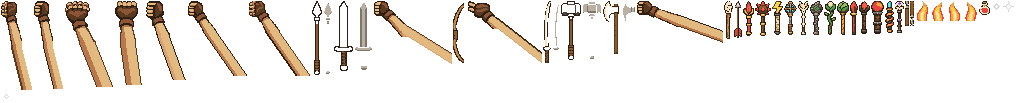
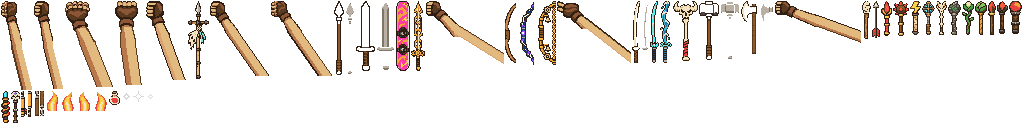
Le armi uniche si vedono in mano per quello che sono (#726)
* Test dei mobili: niente tappeti come comodino (oggi la vetrina ne ha uno e ci si cammina sopra)

* Le armi uniche si vedono in mano per quello che sono

In prima persona ogni arma unica ha il suo disegno: l'Albero della «Stella del Mattino» è un albero maestro col pennone e la vela, la Tavola «Valanga Pro-99» uno snowboard rosa con le fiamme, e così il Martello del Re delle Ossa, la Katana dello Spettro, il Nunchaku del Capobanda, il Fendiflutti, la Grande Lancetta, l'Arco del Custode e l'Arco Carillon. Nel menu la Tavola ha la sua icona e l'Albero un disegno nuovo.

---------

Changed region(s): [[0.0, 0.0, 1.0, 1.0], [0.3438, 0.6408, 0.375, 0.6699]]

diff --git a/apps/client/src/rpg/fp_pose.ts b/apps/client/src/rpg/fp_pose.ts
@@ -4,13 +4,15 @@
 import type { DungeonView } from '@marea/sim/dungeon/types.ts';
 import { COLPI } from '@marea/sim/dungeon/tuning.ts';
 import { bladeAngle, swept } from '@marea/sim/dungeon/swing.ts';
-import { sopraPresa, sottoPresa } from './fp_mani.ts';
+import { destraPresa, sopraPresa, sottoPresa } from './fp_mani.ts';
 import type { Colore, Pezzo } from './fp_mani.ts';
 
 export type Arnese = 'pugni' | 'katana' | 'ascia' | 'nunchaku' | 'lancia' | 'spadone' | 'martello' | 'arco' | 'bacchetta';
 export type Contesto = {
   h: DungeonView['hero'];
   arnese: Arnese;
+  /** Il disegno dell'arma o dell'arco se non è quello del tipo (le uniche: `u_<id>`, coi loro colori e senza lama da tingere); '' = quello del tipo. */
+  sprite: string;
   /** Colore della lama (materiale o unico), della magia in mano, e id della magia (la sua bacchetta). */
   lama: Colore; magia: Colore; magiaId: string;
   /** Forma della magia in mano: 'raggio', 'bomba' o niente. */
@@ -27,17 +29,19 @@ export type Contesto = {
 };
 
 const PESANTI = new Set<Arnese>(['lancia', 'spadone', 'martello']);
+/** Archi unici che hanno la corda nel disegno (la molla dell'Arco Carillon, che non si tende): il gioco non ne disegna un'altra a riposo. */
+const CORDA_PROPRIA = new Set(['u_unico_arco_carillon']);
 const QUASI: Colore = [1, 0.92, 0.55], FILO: Colore = [0.9, 0.82, 0.62];
 const lerp = (a: number, b: number, t: number) => a + (b - a) * t;
 const liscio = (t: number) => { const u = Math.max(0, Math.min(1, t)); return u * u * (3 - 2 * u); };
 const RAGGIO = { x: 0.35, y: 0.06, rot: -0.62 }, REST = { x: 0.3, y: 0.26 }, TORCIA = { x: -0.36, y: 0.2 }, PESO = { x: 0.2, y: 0.2, rot: 0.32 };
 
 function arma(c: Contesto, x: number, y: number, rot: number, out: Pezzo[], scie: readonly (readonly [number, number])[] = []): void {
-  const id = c.arnese;
+  const id = c.sprite || c.arnese;
   for (const [r, a] of scie) out.push({ id: `${id}_lama`, x, y, rot: r, c: c.lama, a, luce: true }, { id, x, y, rot: r, a });
-  if (id === 'nunchaku') {
+  if (c.arnese === 'nunchaku') {
     const dond = Math.sin(c.clock * 7) * 0.25 + rot * 0.6;
-    out.push({ id: 'nunchaku2', x, y, rot: rot + dond });
+    out.push({ id: `${id}2`, x, y, rot: rot + dond });
   }
   out.push({ id, x, y, rot }, { id: `${id}_lama`, x, y, rot, c: c.lama });
 }
@@ -116,15 +120,16 @@ function corda(c: Contesto, x0: number, y0: number, x1: number, y1: number, out:
 /** L'arco nella sinistra, la freccia nella destra: la corda la tira la mano, con la tensione della sim. */
 function arco(c: Contesto, out: Pezzo[]): void {
   const h = c.h, bx = -0.14 + c.bobX + c.swayX, by = 0.36 + c.bobY + c.swayY, tesa = h.anim === 'tende' ? liscio(h.carica) : 0, scatto = h.anim === 'tira' ? 1 - h.t : 0;
-  const su = by + sopraPresa('arco') * c.u + scatto * 0.015, giu = by - sottoPresa('arco') * c.u + scatto * 0.015, piega = 22 * c.u; // le punte dell'arco stanno a destra del ventre
-  out.push({ id: 'arco', x: bx, y: by + scatto * 0.015 });
+  const ar = c.sprite || 'arco', su = by + sopraPresa(ar) * c.u + scatto * 0.015, giu = by - sottoPresa(ar) * c.u + scatto * 0.015, piega = 22 * c.u; // le punte dell'arco stanno a destra del ventre
+  const cx = bx + (c.sprite ? (destraPresa(ar) - 2) * c.u : piega * 0.45); // dove sta la corda (negli unici: al bordo destro del disegno)
+  out.push({ id: ar, x: bx, y: by + scatto * 0.015 });
   if (h.anim === 'tende') {
     const rx = lerp(0.04, 0.26, tesa) + c.bobX, ry = lerp(0.36, 0.26, tesa) + c.bobY;
-    corda(c, bx + piega * 0.45, su, rx, ry, out); corda(c, bx + piega * 0.45, giu, rx, ry, out);
+    corda(c, cx, su, rx, ry, out); corda(c, cx, giu, rx, ry, out);
     out.push({ id: 'freccia', x: rx, y: ry, rot: Math.atan2(bx - rx, by - ry) }, { id: 'regge', x: bx, y: by, flip: true }, { id: 'tira', x: rx, y: ry });
     return;
   }
-  corda(c, bx + piega * 0.45, su, bx + piega * 0.45, giu, out);
+  if (!CORDA_PROPRIA.has(ar)) corda(c, cx, su, cx, giu, out);
   out.push({ id: 'regge', x: bx, y: by, flip: true });
   const rx = REST.x + c.bobX * 1.2 + c.swayX, ry = REST.y - 0.04 - scatto * 0.1 + c.bobY;
   out.push({ id: 'freccia', x: rx, y: ry, rot: 0.12 }, { id: 'pugno', x: rx, y: ry });

diff --git a/apps/client/src/rpg/prima_persona.ts b/apps/client/src/rpg/prima_persona.ts
@@ -21,7 +21,7 @@ import { coloreMagia, palColor } from './items_ui.ts';
 import type { DungeonScene } from './dungeon_scene.ts';
 import { creaSguardo } from './fp_comandi.ts';
 import { creaCorpo } from './fp_corpo.ts';
-import { creaMani } from './fp_mani.ts';
+import { creaMani, haPezzo } from './fp_mani.ts';
 import type { Colore } from './fp_mani.ts';
 import { posa, puntaRaggio } from './fp_pose.ts';
 import type { Arnese } from './fp_pose.ts';
@@ -95,7 +95,7 @@ export function createPrimaPersona(o: {
   const pericoli = creaPericoli({ scene: o.sc.scene, floorY: o.sc.floorY, root: o.root });
   o.diorama.pilota!(true); camera.far = FAR; camera.rotation.order = 'YXZ'; o.sc.scene.add(camera);
   let px = o.hero0.x, pz = o.hero0.z, vel = 0, lat = 0, fase = 0, scossa = 0, caduta = 0, fov = 0, zoom = 1, clock = 0, swY = 0, swP = 0, cambio = 0, chiave = '', animPrima = '', nColpo = 0, frugaMandata = false;
-  let arnese: Arnese = 'pugni', lama: Colore = BIANCO, magia: Colore = BIANCO, forma: string | undefined, tinta: [number, number, number] = [1, 1, 1];
+  let arnese: Arnese = 'pugni', sprite = '', lama: Colore = BIANCO, magia: Colore = BIANCO, forma: string | undefined, tinta: [number, number, number] = [1, 1, 1];
   const qui = new THREE.Vector3(), tip = new THREE.Vector3(), dir = new THREE.Vector3();
   let bobX = 0, bobY = 0, magiaId = '', ultima: DungeonView | null = null;
   /** Per i test: i nemici più vicini (posizione, stato) e i bottini attorno. */
@@ -122,6 +122,7 @@ export function createPrimaPersona(o: {
     const def = h.arma && hasItem(h.arma) ? itemDef(h.arma) : null;
     arnese = !def ? 'pugni' : def.kind === 'arco' ? 'arco' : def.tipo && TIPI.has(def.tipo) ? def.tipo as Arnese : 'katana';
     lama = def?.colore ? coloreLama(palColor(def.colore)) : BIANCO;
+    sprite = def?.unico && haPezzo(`u_${def.id}`) ? `u_${def.id}` : '';
   };
 
   return {
@@ -169,7 +170,7 @@ export function createPrimaPersona(o: {
       }
       bobX = Math.cos(fase) * MANI_PASSO.x * bob; bobY = -Math.abs(Math.sin(fase)) * MANI_PASSO.y * bob - scossa * 0.03; magiaId = h.magia ?? '';
       const pezzi = posa({
-        h, arnese, lama, magia, magiaId: h.magia ?? '', forma, punta, clock, nColpo, u: mani.u,
+        h, arnese, sprite, lama, magia, magiaId: h.magia ?? '', forma, punta, clock, nColpo, u: mani.u,
         bobX, bobY,
         swayX: Math.max(-0.05, Math.min(0.05, swY * 0.3)), swayY: Math.max(-0.04, Math.min(0.04, -swP * 0.25)),
         giu: Math.max(Math.sin(Math.PI * cambio), sch * 0.8, cad, fruga.aperta ? 0.7 : 0),

diff --git a/apps/client/src/rpg/icone.ts b/apps/client/src/rpg/icone.ts
@@ -1,9 +1,10 @@
 // Icone a pixel 16×16 delle armi, degli archi, delle frecce e delle magie: ognuna ha il suo disegno, scritto come righe di lettere
-// (icone_armi.ts, icone_magie.ts) e trasformato qui in una griglia di colori della palette. Puro: niente DOM, lo disegna items_ui.ts.
+// (icone_armi.ts, icone_unici.ts, icone_magie.ts) e trasformato qui in una griglia di colori della palette. Puro: niente DOM, lo disegna items_ui.ts.
 // Armi: m/w/s sono il colore del materiale (medio, chiaro, scuro), il resto è fisso. Il contorno nero caldo lo aggiunge questo file.
 import { PALETTE as P } from '../render/palette.ts';
 import { ARMI } from './icone_armi.ts';
 import { MAGIE } from './icone_magie.ts';
+import { UNICI } from './icone_unici.ts';
 
 export const ICONA = 16;
 /** Colori per riga e colonna; null = trasparente. */
@@ -37,7 +38,7 @@ function griglia(righe: readonly string[], materiale: string = P.pietraScura): S
 
 /** Il disegno di un'arma, di un arco o di frecce (anche gli unici); null se non ne ha uno suo. `materiale` = colore base del materiale. */
 export function spriteArma(it: { id: string; kind: string; tipo?: string }, materiale: string): Sprite | null {
-  const righe = ARMI[it.id] ?? (it.kind === 'arco' ? ARMI['arco'] : it.kind === 'frecce' ? ARMI['frecce'] : it.tipo ? ARMI[it.tipo] : undefined);
+  const righe = UNICI[it.id] ?? ARMI[it.id] ?? (it.kind === 'arco' ? ARMI['arco'] : it.kind === 'frecce' ? ARMI['frecce'] : it.tipo ? ARMI[it.tipo] : undefined);
   return righe ? griglia(righe, materiale) : null;
 }
 /** Il disegno di una magia; null se non ne ha uno suo. */

diff --git a/apps/client/src/rpg/icone_unici.ts b/apps/client/src/rpg/icone_unici.ts
@@ -1,0 +1,40 @@
+// I disegni 16×16 delle armi uniche più nuove (icone_armi.ts è pieno): stesso formato e stesse lettere di icone_armi.ts, chiave = id dell'oggetto.
+// Il contorno lo aggiunge icone.ts. Le armi puntano in alto a destra.
+export const UNICI: Readonly<Record<string, readonly string[]>> = {
+  unico_albero_stella: [ // Albero della «Stella del Mattino»: albero maestro spezzato, pennone, vela strappata, nastri azzurri e la lama in cima
+    '...............w',
+    '..............wm',
+    '....c........wms',
+    '....Ac......wms.',
+    '....Aoc....eqq..',
+    '....Aooc..lb....',
+    '....T.ooclb.....',
+    '......oolc......',
+    '.......lboc.....',
+    '......lboooc....',
+    '.....lb..oooc...',
+    '....lb...oooA...',
+    '...lb.......A...',
+    '..lb........A...',
+    '.lb.........T...',
+    'lb..............',
+  ],
+  unico_tavola_valanga: [ // Tavola «Valanga Pro-99»: snowboard rosa con le fiamme, lamine d'acciaio e due attacchi neri
+    '................',
+    '.............ee.',
+    '...........ePOPe',
+    '..........ePYOe.',
+    '.........eOPPe..',
+    '........ekkke...',
+    '.......ePPYe....',
+    '......ePOPe.....',
+    '.....eYOPe......',
+    '....ePPOe.......',
+    '...ekkke........',
+    '..ePYPe.........',
+    '.eOPPe..........',
+    'ePOYe...........',
+    'ee..............',
+    '................',
+  ],
+};

diff --git a/apps/client/src/rpg/fp_mani.ts b/apps/client/src/rpg/fp_mani.ts
@@ -27,6 +27,10 @@ const R = (ATLANTE as { w: number; h: number; pezzi: Record<string, Riquadro> })
 const AW = ATLANTE.w, AH = ATLANTE.h;
 /** Quanti pixel dello sprite ci sono dal punto di presa alla cima e al fondo del pezzo (per le punte di armi e bacchette, e per le corde). */
 export const sopraPresa = (id: string): number => R[id]?.ay ?? 0;
+/** L'atlante ha il pezzo `id`? (le armi uniche hanno il loro disegno, `u_<id>`) */
+export const haPezzo = (id: string): boolean => id in R;
+/** Pixel dello sprite dal punto di presa al bordo destro (dove sta la corda degli archi). */
+export const destraPresa = (id: string): number => (R[id] ? R[id]!.w - R[id]!.ax : 0);
 export const sottoPresa = (id: string): number => (R[id] ? R[id]!.h - R[id]!.ay : 0);
 /** La mano vera e propria (pugno e avambraccio fino al bordo) prende circa metà altezza dello schermo. */
 const QUOTA_MANO = 0.5, ALTO_PUGNO = 45;

diff --git a/apps/client/src/rpg/icone_armi.ts b/apps/client/src/rpg/icone_armi.ts
@@ -291,22 +291,4 @@ export const ARMI: Readonly<Record<string, readonly string[]>> = {
     '................',
     '................',
   ],
-  unico_albero_stella: [ // Albero della «Stella del Mattino»: albero maestro con la vela
-    '............T..T',
-    '..............m.',
-    '............wm..',
-    '..........wwms..',
-    '.........wwms...',
-    '........wwmss...',
-    '........wmss....',
-    '........lss.....',
-    '.......oo.ea....',
-    '......RR.eaao...',
-    '.....lb...aaoo..',
-    '....lb.....ooo..',
-    '...lb.......o.o.',
-    '..lb............',
-    '.qb.............',
-    'q...............',
-  ],
 };

diff --git a/tools/sprite/fp_atlas.py b/tools/sprite/fp_atlas.py
@@ -4,7 +4,8 @@
 Riduce ogni foglio sulla sua griglia (fp_griglia.py), stacca le figure da sinistra a destra, allunga gli avambracci oltre il bordo (così non si
 vede mai dove finiscono), separa le lame grigie (il gioco le tinge col materiale) e disegna da codice le fiamme e i bagliori. Impacchetta tutto in
 un PNG e scrive il JSON coi riquadri e i punti di presa. Per controllare: scrive anche un foglio ingrandito con i punti di presa segnati.
-Uso: fp_atlas.py <cartella coi fogli> <png di uscita> <json di uscita>
+Le armi uniche (fogli `u*`, in un'altra cartella con --unici) hanno i loro colori: tutta la palette, niente lama da tingere, passo trovato da solo.
+Uso: fp_atlas.py <cartella coi fogli> <png di uscita> <json di uscita> [--unici <cartella coi fogli u*>]
 """
 import json
 import math
@@ -39,6 +40,20 @@ OGGETTI = {
     'b2': [('b_bomba_elettrica', 0.14), ('b_lupo_spettrale', 0.14), ('b_scheletro_evocato', 0.14), ('b_golem_evocato', 0.14)],
     'b3': [('b_cura_flusso', 0.14), ('b_cura_bomba', 0.14), ('b_furia_flusso', 0.14), ('b_furia_bomba', 0.14)],
 }
+# Ritocchi di colore dopo la lettura: la pietra scura del Vuoto Codex la fa quasi nera e diventerebbe tutta contorno (dentro: '#2E1E14' non sul bordo)
+VUOTO = {'dentro': '#163F73', '#4A4340': '#8A5CFF', '#7F7568': '#A64DFF'}
+# Le armi uniche: foglio -> [(nome, presa come frazione dell'altezza dal basso, come si stacca, altezza in pixel dello sprite)]; l'altezza è quella
+# dell'arma del suo tipo (un po' di più se arriva più lontano): ogni figura si legge col passo che la porta lì. «nunchaku» = due pezzi come il nunchaku,
+# «arco» = senza la corda (la tira il gioco), «molla» = arco che tiene la sua corda (la molla dell'Arco Carillon)
+UNICI = {
+    'u1': [('u_unico_albero_stella', 0.3, '', 78), ('u_unico_tavola_valanga', 0.12, '', 70), ('u_unico_martello_re', 0.2, '', 60)],
+    'u2': [('u_unico_katana_spettro', 0.1, '', 62), ('u_unico_nunchaku_bandito', 0.3, 'nunchaku', 52), ('u_unico_fendiflutti', 0.1, '', 62)],
+    'u3': [('u_unico_grande_lancetta', 0.08, '', 70), ('u_unico_arco_custode', 0.5, 'arco', 64, VUOTO), ('u_unico_arco_carillon', 0.5, 'molla', 64)],
+}
+# la palette intera (docs/ART_BIBLE.md §2): gli unici sono colorati; il primo è il contorno (fp_griglia lo riconosce per primo)
+TUTTI = ['#2E1E14', '#F4E3C1', '#E2B97F', '#C98A4B', '#8E5A2B', '#5A3A1E', '#D9E872', '#8FC35B', '#4E9A46', '#2C6B3F', '#1E4A3A', '#E8E1D6', '#B9AFA3', '#7F7568',
+         '#4A4340', '#23201F', '#E8433F', '#F2A33A', '#F5D547', '#FF3DA6', '#3DF5FF', '#FFB03D', '#8A5CFF', '#7FE3E0', '#3FB9C9', '#2478A8', '#163F73', '#A64DFF',
+         '#B6FF3D', '#FF5C3D']
 LAMA = {'katana', 'ascia', 'lancia', 'spadone', 'martello'}
 ALLUNGA = 44
 
@@ -136,6 +151,61 @@ def impacchetta(pezzi, W=1024):
     return tela, meta
 
 
+def ritocca(t, mappa):
+    """Cambia i colori di `mappa` (hex -> hex); 'dentro' = il colore del contorno quando non tocca il vuoto."""
+    pieno = t[..., 3] > 0
+    bordo = np.zeros_like(pieno)
+    bordo[1:] |= ~pieno[:-1]; bordo[:-1] |= ~pieno[1:]; bordo[:, 1:] |= ~pieno[:, :-1]; bordo[:, :-1] |= ~pieno[:, 1:]
+    bordo[0] = bordo[-1] = True; bordo[:, 0] = bordo[:, -1] = True
+    orig = t.copy()
+    for da, a in mappa.items():
+        if da == 'dentro':
+            m = pieno & ~bordo & np.all(orig[..., :3] == G.hex_rgb(TUTTI[0]), axis=-1)
+        else:
+            m = pieno & np.all(orig[..., :3] == G.hex_rgb(da), axis=-1)
+        t[m, :3] = G.hex_rgb(a)
+
+
+def unici(dove):
+    """I pezzi delle armi uniche: si trova il passo del foglio, poi ogni figura si rilegge col passo che le dà l'altezza voluta."""
+    out = {}
+    for foglio, voci in UNICI.items():
+        G.TAVOLOZZA[:] = TUTTI
+        path = os.path.join(dove, foglio + '.png')
+        a, p0, _, _ = G.riduci_griglia(path)
+        alte = [f[3] - f[1] for f in G.figure(a, 25)]
+        if len(alte) != len(voci):
+            print(f'!! {foglio}: {len(alte)} figure invece di {len(voci)}')
+            continue
+        for i, (nome, frac, come, alto, *ritocchi) in enumerate(voci):
+            p = p0 * alte[i] / alto
+            a, p, _, _ = G.riduci_griglia(path, p)
+            fig = G.figure(a, 25)
+            if len(fig) != len(voci):
+                print(f'!! {foglio} a passo {p:.1f}: {len(fig)} figure')
+                continue
+            x0, y0, x1, y1, celle = fig[i]
+            t = np.zeros((y1 - y0, x1 - x0, 4), dtype=np.uint8)
+            for y, x in celle:
+                t[y - y0, x - x0] = a[y, x]
+            if ritocchi:
+                ritocca(t, ritocchi[0])
+            h, w = t.shape[:2]
+            ay, ax = int(h * (1 - frac)), mediana_x(t, 0.12)
+            if come == 'nunchaku':
+                m = h // 2
+                out[nome] = (t[m:].copy(), ax, (h - m) // 2)
+                out[nome + '2'] = (t[:m].copy(), ax, m + (h - m) // 2)
+            else:
+                if come == 'arco':
+                    t[:, w - 3:] = 0
+                if come in ('arco', 'molla'):
+                    ax = int(np.where(t[ay, :, 3] > 0)[0].min()) + 2
+                out[nome] = (t, ax, ay)
+            print(f'{nome}: passo {p:.1f}, {w}×{h}, presa {ax},{ay}')
+    return out
+
+
 def main():
     if len(sys.argv) < 4:
         sys.exit(__doc__)
@@ -187,6 +257,8 @@ def main():
             else:
                 pezzi[nome] = (t, ax, ay)
             print(f'{nome}: passo {p:.1f}, {w}×{h}, presa {ax},{ay}')
+    if '--unici' in sys.argv:
+        pezzi.update(unici(sys.argv[sys.argv.index('--unici') + 1]))
     pezzi['nunchaku_lama'] = (np.zeros((1, 1, 4), dtype=np.uint8), 0, 0)
     f = pezzi.get('fiaccola')
     if f:
